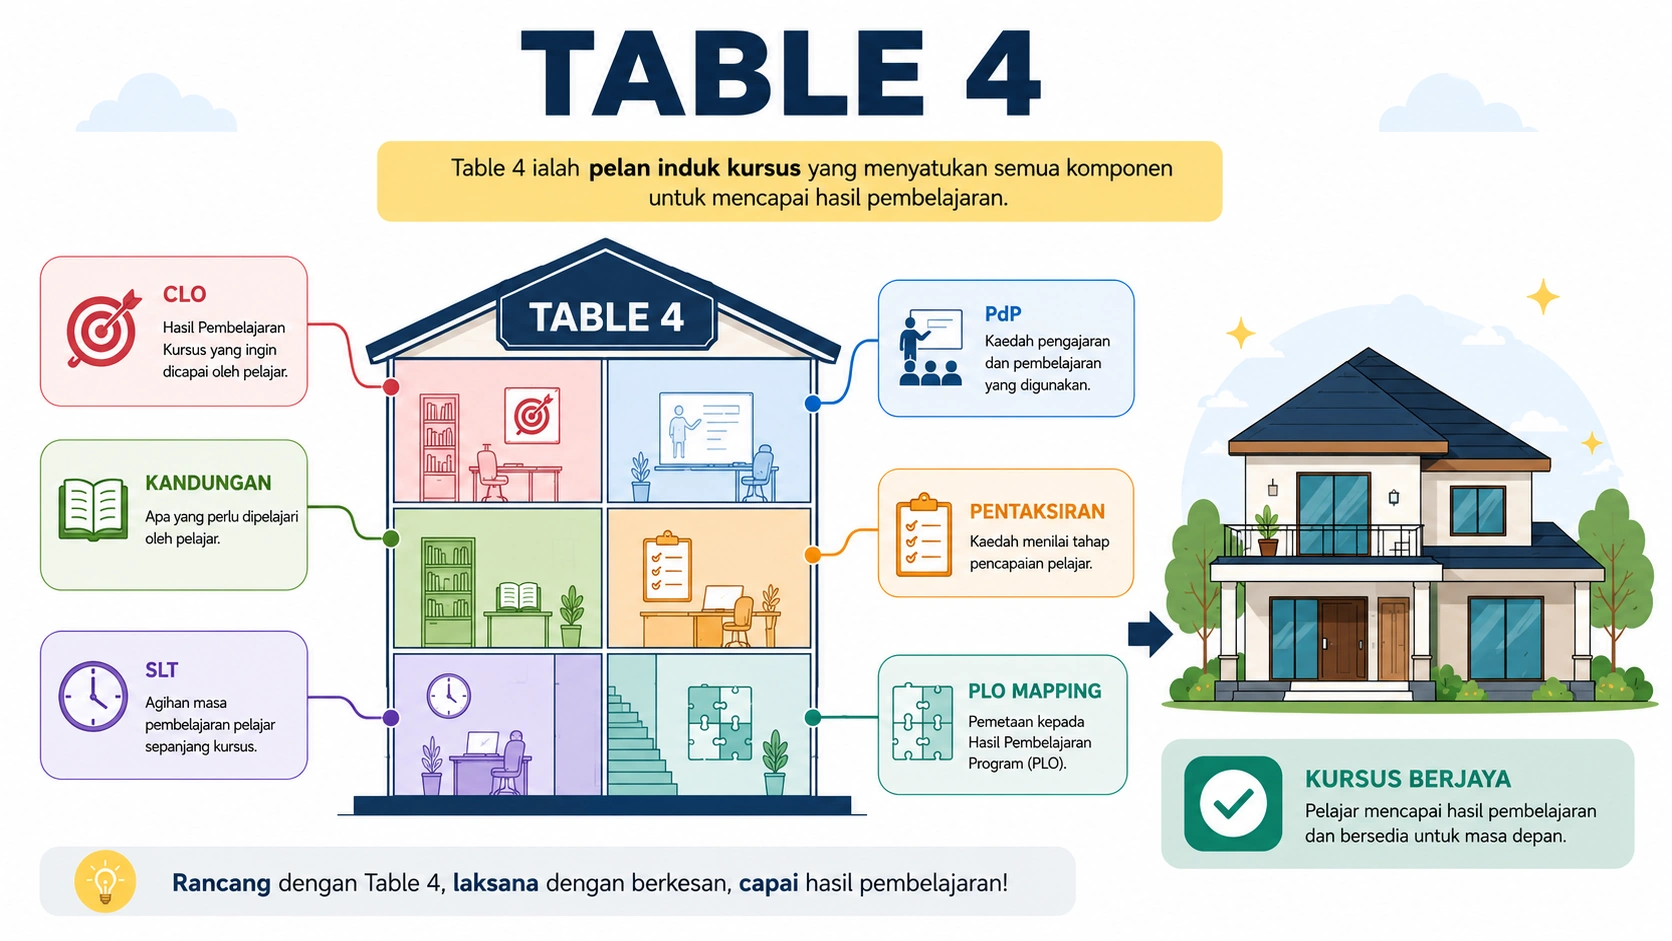
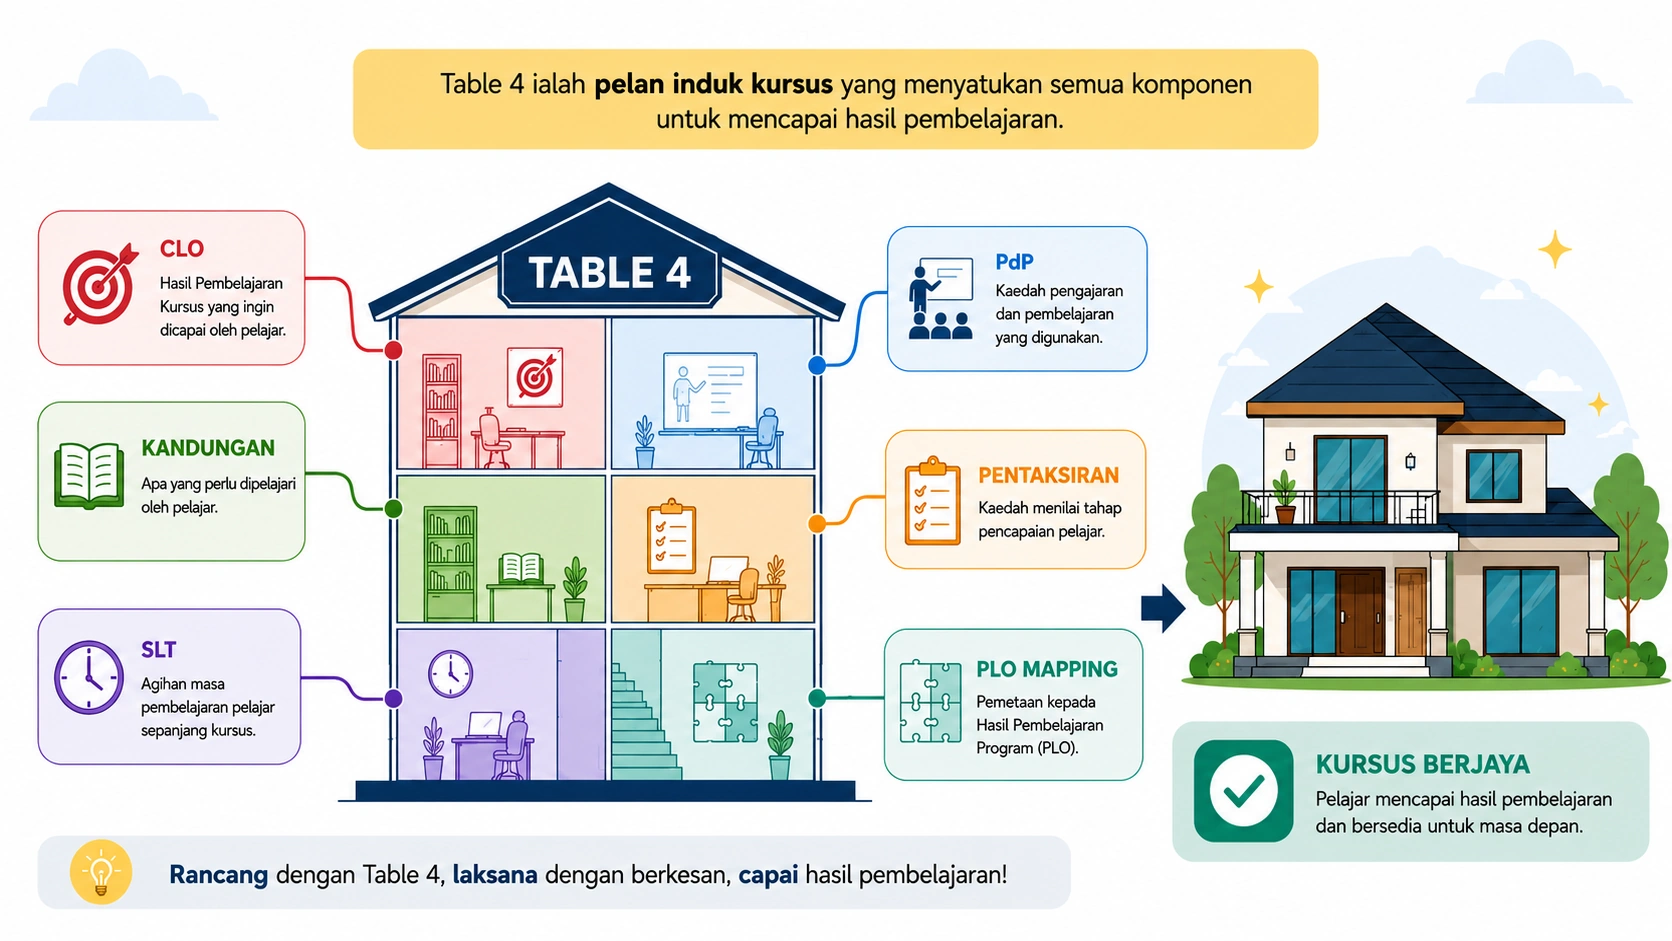
Dah adjust buang rujukan istilah

diff --git a/index.html b/index.html
@@ -69,12 +69,12 @@
 
         <div class="tags">
 
-            <a href="?guide=constructive-alignment" class="badge badge-blue">
-                C.Alignment
-            </a>
-
             <a href="?guide=table4" class="badge badge-blue">
                 Table 4
+            </a>
+
+            <a href="?guide=constructive-alignment" class="badge badge-blue">
+                C.Alignment
             </a>
 
             <a href="?guide=clo" class="badge badge-purple">

diff --git a/assets/css/guide.css b/assets/css/guide.css
@@ -110,7 +110,7 @@
 
     flex-shrink:0;
 
-    padding:6px 8px;
+    padding:8px 10px;
 
     background:transparent;
 
